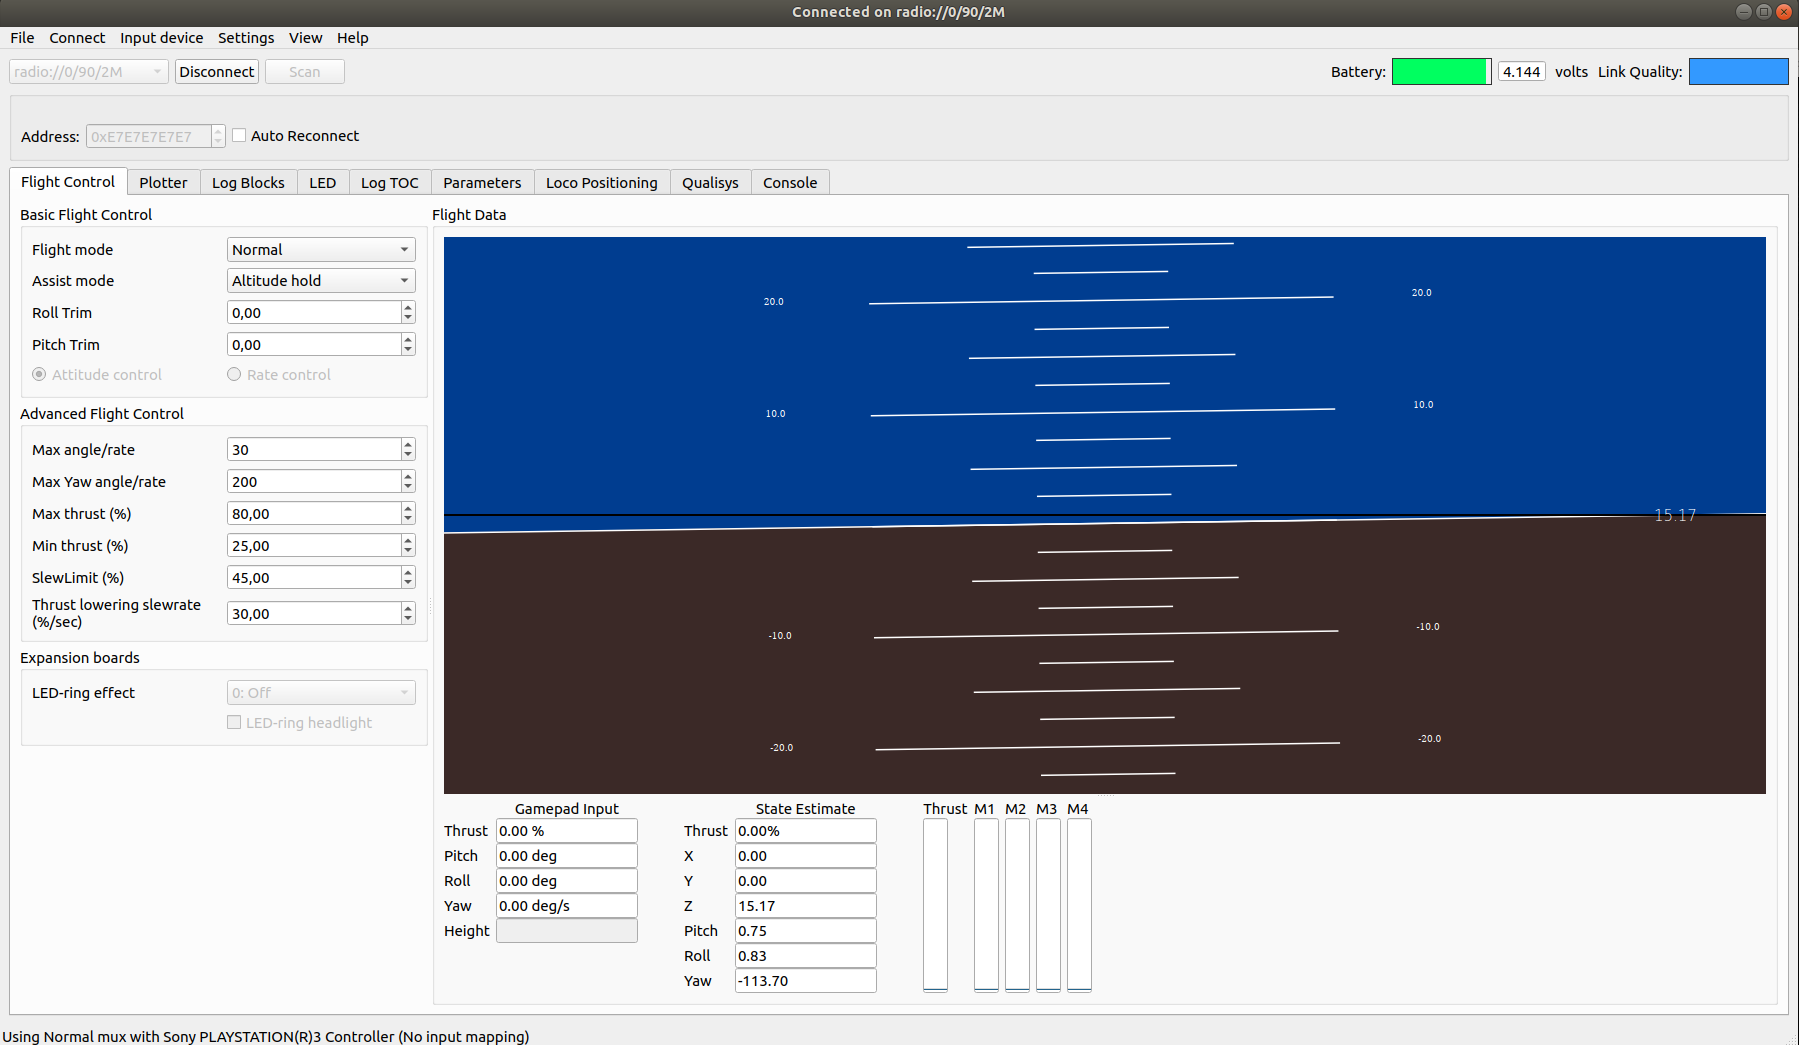
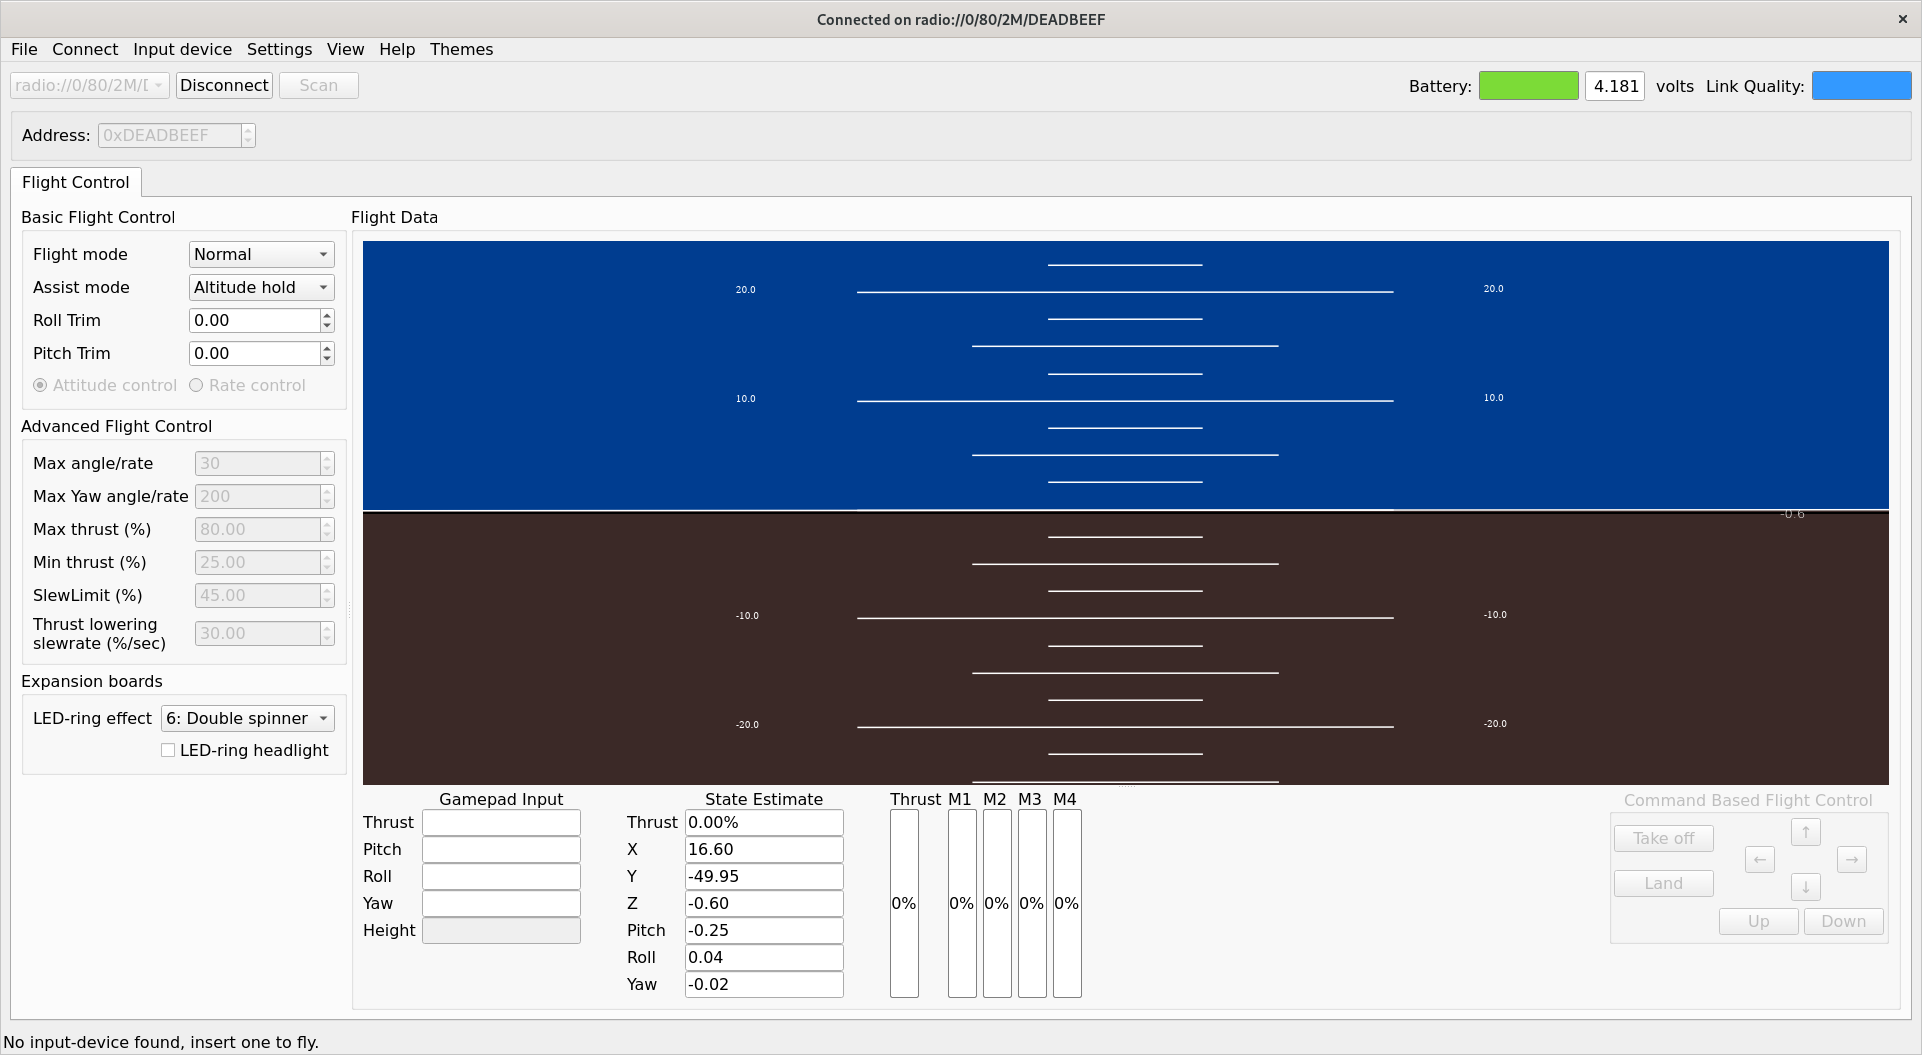
docs: Update userguide Main UI and index.md front pic

Changed region(s): [[0.0, 0.0, 1.0, 1.0], [0.8405, 0.8268, 0.8716, 0.8574]]

diff --git a/docs/userguides/userguide_client.md b/docs/userguides/userguide_client.md
@@ -56,10 +56,10 @@ For more info on LED indicators etc. have a look at the [Crazyflie 2.X](https://
        * *Connect:* Will connect to the selected URI in the connection list
        * *Disconnect:* Will disconnect the current Crazyflie
        * *Address:* The address to scan for. If you didn't change this [in the configuration]( #firmware-configuration), then leave the default of 0xE7E7E7E7E7
-       * *Auto Reconnect:* Try to automatically reconnect when connection is lost.
-    - Battery and link quality (from 0% to 100%)
-    - Tabs with specific functionality (see below for details)
-    - The selected and used input interface
+3. Battery and link quality (from 0% to 100%)
+4. Tabs with specific functionality (see below for details)
+5. The selected and used input interface
+6. Command based flight control, allow controlled flight if, and only if, a positioning deck such as the [Flow deck](https://store.bitcraze.io/collections/decks/products/flow-deck-v2), the [Loco deck](https://store.bitcraze.io/collections/decks/products/loco-positioning-deck) or the [Lighthouse deck](https://store.bitcraze.io/collections/decks/products/lighthouse-positioning-deck) is present.
 
 ---
 
